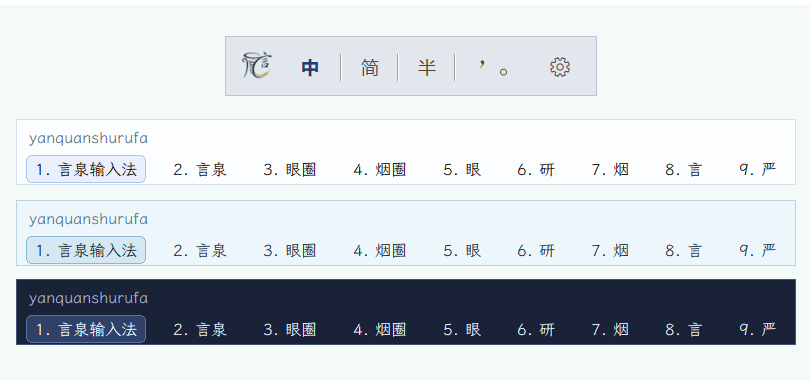
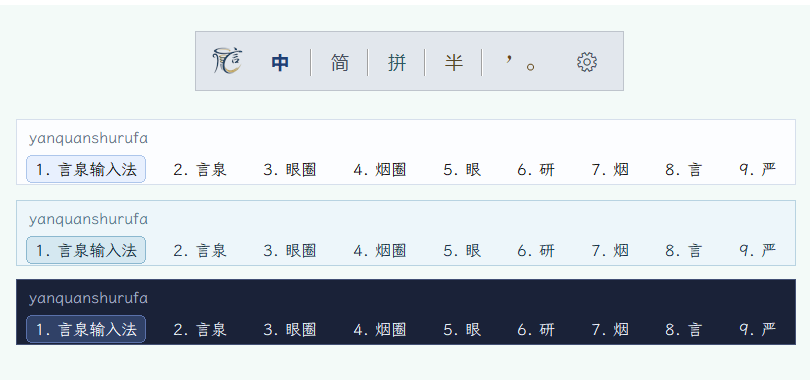
Prepare v1.4.0 documentation and refine status UI

diff --git a/README.md b/README.md
@@ -23,17 +23,18 @@ The Chinese name **言泉** (Yanquan, "Spring of Words") matches Cassotis as a p
 The project focus is:
 - build a stable TSF-based IME foundation,
 - keep the architecture modular (TSF DLL + host process + tools),
-- improve corpus-trained local language models while continuing to explore optional LLM-assisted input.
+- improve corpus-trained local ranking for long sentences and context-aware short-word selection.
 
 ## Current Status
 - TSF text service pipeline is available (registration, activation, composition lifecycle).
 - TSF binaries support Win64 and Win32 (`svr.dll` / `svr32.dll`), while host process is Win64 only.
 - Candidate window, paging, selection, and commit flow are implemented.
-- Full Pinyin, Microsoft Double Pinyin, Xiaohe Double Pinyin, Ziranma Double Pinyin, and Sogou Double Pinyin share the same candidate ranking and user-learning data.
+- Full Pinyin and four selectable Double Pinyin schemes—Microsoft, Xiaohe, Ziranma, and Sogou—share the same candidate ranking and user-learning data.
 - Dictionary split is supported: simplified base DB, traditional base DB, and user DB.
 - Base dictionary now includes `dict_jianpin` index entries for initial-letter abbreviations (for example `jt -> 今天`; retroflex variants like `zsjs/zhshjsh` are both generated).
 - Full-path segmented phrase decoding is enabled (for example `womenjintian -> 我们今天`) while keeping prefix candidates for partial-commit fallback.
 - A deployable local neural residual reranker conservatively corrects complete long-sentence rankings without affecting short exact-query mode.
+- An independent short-word context reranker uses already committed text to resolve ambiguous exact candidates while preserving normal no-context order.
 - Surrounding-text/context synchronization and key state synchronization are implemented.
 
 ## Architecture
@@ -89,12 +90,26 @@ Main rebuild entry:
 .\rebuild_dict.ps1
 ```
 
-## Corpus-Trained AI Ranking for Long Sentences
+## Corpus-Trained Local Ranking
 Cassotis v1.1.0 introduces an offline-trained local statistical language model for long-sentence path ranking. The training pipeline learns lexicon-constrained word bigram/trigram transition priors and a smoothed character trigram model from cleaned general Chinese and fiction corpora. The Benchmark-16300 corpus is kept separate and is not used for training.
 
 Cassotis v1.3.0 adds the project's first deployable neural residual reranker. The compact feed-forward model is trained offline on lexicon-constrained N-best candidate comparisons and conservatively promotes better complete long-sentence candidates while retaining the original engine result as a fallback.
 
-The statistical model is quantized into the local dictionary database, while the neural reranker is exported as deterministic native Pascal parameters. When a user enters a long sentence, the engine evaluates this compact feed-forward network directly while producing that query's candidates and conservatively reranks complete candidates. This is local inference, not training: it starts no PyTorch/ONNX runtime or external model service, requires no network connection or GPU, and is bypassed by short exact-query ranking.
+Cassotis v1.4.0 extends the same offline-training approach to short-word input. A separate context reranker combines character-LM evidence with the text immediately before the cursor when comparing exact candidates. It only participates when left context is available and the query has competing exact candidates; without usable context, the original short-word order is retained.
+
+The statistical model is quantized into the local dictionary database, while the compact rerankers are exported as deterministic native Pascal parameters. Runtime scoring is local and bounded: it starts no PyTorch/ONNX environment or external model service and requires no network connection or GPU. Long-sentence and short-word ranking remain separate paths, so improvements to one do not replace the other's matching rules.
+
+## Short-word Context Benchmark-65000
+This benchmark contains 65,000 occurrences of two- to four-character words, each paired with the sentence prefix already committed before that word. The fixed cases are derived from the Benchmark-16300 sentence list and are excluded from short-context model training. User-dictionary ranking is disabled during evaluation.
+
+`Contested` is the subset where the same Pinyin query maps to at least two expected words in the corpus, making left context materially useful. The table reports the context-enabled track. In v1.3.0 and earlier releases, supplying context did not change short-word ranking, so context and no-context results were identical.
+
+| Version | Top1 | Top2 | Contested Top1 | Contested Top2 | Mean (ms) | P50 (ms) | P95 (ms) | Max (ms) |
+|---|---:|---:|---:|---:|---:|---:|---:|---:|
+| `v1.4.0` | 60680/65000 (93.35%) | 63251/65000 (97.31%) | 8993/11728 (76.68%) | 10602/11728 (90.40%) | 5.581 | 4.515 | 11.128 | 160.695 |
+| `v1.3.0` | 59078/65000 (90.89%) | 62881/65000 (96.74%) | 8326/11728 (70.99%) | 10386/11728 (88.56%) | 5.460 | 4.396 | 10.939 | 176.912 |
+
+Latency values are engine-only per-query times for the context-enabled track and do not include TSF or candidate-window rendering.
 
 ## Long Sentence Benchmark Results
 See [BENCHMARK.md](BENCHMARK.md) for the Benchmark-16300 methodology, corpus source, and scoring rules.
@@ -141,7 +156,7 @@ This project is licensed under GPL-3.0. See `LICENSE` for the full license text.
 Keep third-party notices and attribution files consistent with `THIRD_PARTY.md`.
 
 ## Roadmap
-- improve candidate ranking quality and practical phrase coverage
+- continue training compact local rerankers from independent corpora and N-best comparisons
+- expand independent benchmarks and failure attribution to tune model gates and fallback behavior
 - improve user-dictionary quality control and tooling
 - extend compatibility matrix across editors/browsers/IDEs
-- evaluate local LLM (GGUF) assisted suggestion workflow